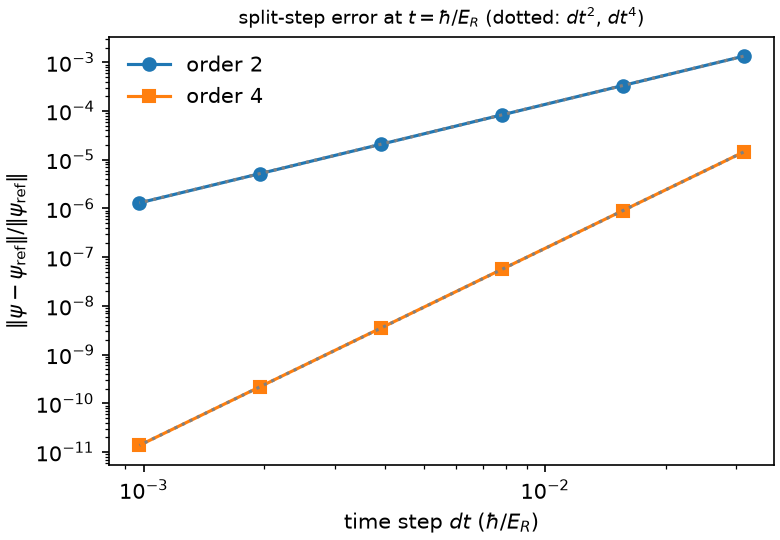
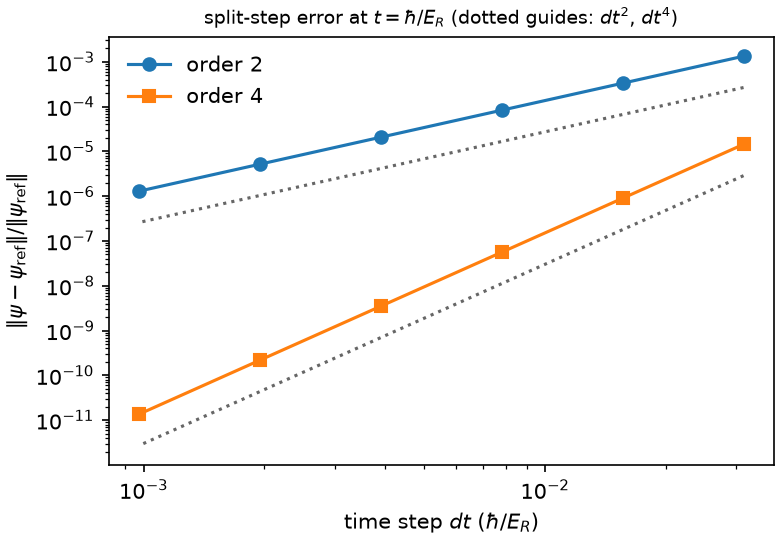
README: model, units, 3D capability, references; clearer validation claims

diff --git a/scripts/validation_report.py b/scripts/validation_report.py
@@ -27,7 +27,7 @@ GROUPS = {
     "C": (
         "Numerical anchors",
         "Dressed band bottom, chemical potential and in-situ contrast at the experiment's coupling, each "
-        "reproduced by an independent solver.",
+        "reproduced by the author's earlier, separately written solvers (not distributed).",
     ),
     "D": (
         "Pre-flight checks",
@@ -36,7 +36,8 @@ GROUPS = {
     ),
     "E": (
         "Trapped cloud",
-        "A cloud of N = 2000 atoms in a 20 Hz trap: contrasts and size against an independent solver, "
+        "A cloud of N = 2000 atoms in a 20 Hz trap: contrasts and size against the author's earlier "
+        "quasi-2D solver (not distributed), "
         "convergence, conservation, and the cloud staying inside the box.",
     ),
 }
@@ -62,7 +63,7 @@ def main(path: str, out: str = str(ROOT / "docs" / "validation.md")) -> int:
         f"({'full' if not meta.get('quick', True) else 'quick'} settings, {d.get('elapsed_s', 0):.0f} s).",
         "",
         "A gate is a pass/fail check of the engine against something known independently: an analytic "
-        "result, an exact identity of the Hamiltonian, or a number reproduced by an independent code. "
+        "result, an exact identity of the Hamiltonian, or a number reproduced by a separately written code. "
         "Thresholds and their sources are in `src/twisted_bilayer/gates/references.py`; a threshold is "
         "never loosened to make a gate pass. Regenerate this page with",
         "",

diff --git a/examples/03_time_step_convergence.py b/examples/03_time_step_convergence.py
@@ -70,10 +70,10 @@ dts = T / steps
 fig, ax = plt.subplots(figsize=(5.2, 3.6), constrained_layout=True)
 for order, mark in ((2, "o-"), (4, "s-")):
     ax.loglog(dts, errors[order], mark, label=f"order {order}")
-    ax.loglog(dts, errors[order][0] * (dts / dts[0]) ** order, ":", color="0.5")
+    ax.loglog(dts, 0.2 * errors[order][0] * (dts / dts[0]) ** order, ":", color="0.4")  # offset guide
 ax.set_xlabel(r"time step $dt$ ($\hbar/E_R$)")
 ax.set_ylabel(r"$\|\psi - \psi_\mathrm{ref}\| / \|\psi_\mathrm{ref}\|$")
-ax.set_title(r"split-step error at $t = \hbar/E_R$ (dotted: $dt^2$, $dt^4$)", fontsize=9)
+ax.set_title(r"split-step error at $t = \hbar/E_R$ (dotted guides: $dt^2$, $dt^4$)", fontsize=9)
 ax.legend(frameon=False)
 fig.savefig(OUT / "03_time_step_convergence.png", dpi=150)
 print(f"wrote {OUT / '03_time_step_convergence.png'}")

diff --git a/src/twisted_bilayer/engine/backend.py b/src/twisted_bilayer/engine/backend.py
@@ -20,7 +20,7 @@ import os
 
 import torch
 
-_FORCE_CPU = bool(os.environ.get("TWISTED_BILAYER_FORCE_CPU"))
+_FORCE_CPU = os.environ.get("TWISTED_BILAYER_FORCE_CPU", "").strip().lower() not in ("", "0", "false", "no")
 HAS_GPU = torch.cuda.is_available() and not _FORCE_CPU
 DEVICE = torch.device("cuda" if HAS_GPU else "cpu")
 

diff --git a/README.md b/README.md
@@ -1,4 +1,4 @@
-# twisted-bilayer: Gross–Pitaevskii simulations of twisted-bilayer optical lattices
+# twisted-bilayer — a two-component Gross–Pitaevskii solver for BECs in twisted-bilayer optical lattices
 
 [![licence: MIT](https://img.shields.io/badge/licence-MIT-blue.svg)](LICENSE)
 [![python: 3.10+](https://img.shields.io/badge/python-3.10%2B-blue.svg)](pyproject.toml)
@@ -6,20 +6,30 @@
 `twisted-bilayer` solves the two-component Gross–Pitaevskii equation for a Bose–Einstein condensate held in
 two square optical lattices twisted against each other, one lattice per hyperfine state, coupled by a
 microwave field. It is written in PyTorch and runs on CPU and CUDA. It covers the exactly periodic moiré
-supercell, trapped clouds, real-time dynamics, and time of flight with absorption imaging. Every run can be
-checked against a catalogue of physics gates.
+supercell, trapped clouds, real-time dynamics, and time of flight with absorption imaging. The engine is
+checked by 89 physics gates, all passing ([docs/validation.md](docs/validation.md)).
 
 The model follows the experiment of Meng *et al.*,
 [*Atomic Bose–Einstein condensate in twisted-bilayer optical lattices*, Nature **615**, 231 (2023)](https://doi.org/10.1038/s41586-023-05695-4):
-⁸⁷Rb in |F=1, m=1⟩ and |F=2, m=0⟩, lattice constant a = 395 nm, twist θ = 5.2°, and a pancake-shaped
-vertical trap folded into 2D. The scope is mean-field: ground states, real-time evolution, Bogoliubov
+⁸⁷Rb in |F=1, m_F=1⟩ and |F=2, m_F=0⟩, lattice constant a = 395 nm, twist angle θ = 5.2°, and a
+pancake-shaped vertical trap, treated in full 3D or folded into 2D. In lattice units (a = E_R = ħ = 1, so
+m = π²/2):
+
+```math
+i\,\partial_t \psi_{1,2} = \Big[-\tfrac{1}{\pi^2}\nabla^2 + V_{1,2}(\mathbf r) \pm \tfrac{\Delta}{2} + g\,n\Big]\psi_{1,2} + \Omega_R\,\psi_{2,1},
+\qquad n = |\psi_1|^2 + |\psi_2|^2 .
+```
+
+Ω_R is the off-diagonal matrix element, so a bare two-level atom oscillates as sin²(Ω_R t). The paper's
+2π × 893 Hz is Ω_R = 0.24277 E_R. The scope is mean field: ground states, real-time evolution, Bogoliubov
 excitations, and a tight-binding cross-check.
 
 <p align="center"><img src="docs/figures/ground_state.png" alt="Moiré potential of the two twisted lattices and the ground-state density of one component" width="760"></p>
 
 *Left: the sum of the two lattice potentials on the periodic supercell (θ = 5.2051°, side √485 a, 2 × 2
-moiré cells). Right: the density of |2⟩ in the ground state at V₀ = 4 E_R and Ω_R = 0.243 E_R.
-`python examples/01_ground_state.py` makes this figure in about 15 seconds.*
+moiré cells). Right: the density of |2⟩ in the ground state at V₀ = 4 E_R, Ω_R = 0.24277 E_R, one atom per
+lattice site, with the NPSE vertical reduction on a 176 × 176 grid. `python examples/01_ground_state.py`
+makes this figure in about 15 seconds on 2 CPU cores.*
 
 ## Highlights
 
@@ -29,23 +39,30 @@ moiré cells). Right: the density of |2⟩ in the ground state at V₀ = 4 E_R a
   ([example 3](examples/03_time_step_convergence.py)).
 - **Batched parameter sweeps.** The coupling Ω_R, the detuning, the interaction and the phase twist can be
   tensors with a batch axis, so a whole scan relaxes in one set of FFT calls on the GPU.
-- **Superfluid fraction two ways.** It comes from the energy of a phase twist and, independently, from the
-  current that twist drives. The two routes agree to 4 × 10⁻⁵ and are checked against Leggett's rigorous
-  bounds.
+- **Superfluid fraction with bounds.** A phase twist Φ across the box, the same on both components, gives
+  f_s from the twist energy and from the twist current. The two estimators are related by
+  Hellmann–Feynman, so their agreement (4 × 10⁻⁵ at Φ = 0.2) checks the twisted ground state. Leggett's
+  upper and lower bounds, computed from the untwisted density, bracket the result.
+- **One engine in 1D, 2D and 3D.** The grid, the split-step propagator, the ground-state solver and the
+  energy, current and superfluid-fraction observables work on any number of spatial axes, so the full 3D
+  problem with the vertical trap runs on the same code as the 2D reduction and the 1D toy models. The
+  imaging observables are 2D (column densities). The tests include 3D real-time runs and the NPSE checked
+  against full 3D.
 - **Exactly periodic moiré cells.** Commensurate twists tan(θ/2) = n/m give a periodic square box. The
   experiment's angle is n/m = 1/22.
-- **More than one model.** The thin vertical direction is handled by the NPSE reduction and checked against
-  the full 3D problem. The package also covers trapped clouds from a local-density start,
+- **More than one model.** The vertical direction can be folded into 2D by the NPSE, a reduction that is
+  checked against the full 3D solution. The package also covers trapped clouds from a local-density start,
   Bogoliubov–de Gennes modes, a two-layer Bose–Hubbard mean field, and the time-of-flight and coherent
   absorption-imaging pipeline.
-- **Physics gates.** 89 gates check the engine against analytic results, exact identities and numbers
-  reproduced by independent solvers that are not part of this package
-  ([docs/validation.md](docs/validation.md)).
+- **Physics gates.** 89 gates check the engine against analytic results, exact identities, and numbers
+  reproduced by the author's earlier, separately written quasi-2D and 3D solvers. Those solvers are not
+  distributed; their values and tolerances are pinned in
+  [`gates/references.py`](src/twisted_bilayer/gates/references.py).
 
 ## Validation
 
-A selection from `twisted-bilayer gates --full --trapped` (89 gates, all passing; CPU, float64). The full table is in
-[docs/validation.md](docs/validation.md).
+A selection from `twisted-bilayer gates --full --trapped`: 89 gates, all passing, on the CPU in complex128,
+in about 6.5 minutes on 2 CPU cores. The full table is in [docs/validation.md](docs/validation.md).
 
 | check | error | reference |
 | --- | --- | --- |
@@ -54,31 +71,39 @@ A selection from `twisted-bilayer gates --full --trapped` (89 gates, all passing
 | detuned two-level Rabi oscillation, N₂/N(t) | 1.1 × 10⁻¹⁵ | exact |
 | band bottom of V₀ sin²(πx) at 4 E_R, on the √485 supercell | 6.2 × 10⁻¹² | plane-wave diagonalisation |
 | Bloch weight \|c₀\|⁴ at 4 E_R | 4.9 × 10⁻⁹ | plane-wave diagonalisation |
-| gauge symmetry H(−Ω) = σ_z H(Ω) σ_z | 1.6 × 10⁻¹⁶ | exact identity |
+| gauge symmetry H(−Ω_R) = σ_z H(Ω_R) σ_z | 1.6 × 10⁻¹⁶ | exact identity |
 | time reversal dt → −dt after 400 steps | 7.3 × 10⁻¹⁴ | exact identity |
-| superfluid fraction, twist energy against twist current | 4.1 × 10⁻⁵ | two independent routes |
-| dressed band bottom at Ω_R = 0.243 E_R | 2.2 × 10⁻¹⁰ | independent quasi-2D and 3D solvers |
-| chemical potential at Ω_R = 0.243 E_R, one atom per site | 1.8 × 10⁻⁷ | independent quasi-2D solver |
+| superfluid fraction, twist energy against twist current | 4.1 × 10⁻⁵ | consistency of the two estimators |
+| dressed band bottom at Ω_R = 0.24277 E_R | 2.2 × 10⁻¹⁰ | author's quasi-2D and 3D solvers |
+| chemical potential at Ω_R = 0.24277 E_R, one atom per site | 1.8 × 10⁻⁷ | author's quasi-2D solver |
 
 <p align="center"><img src="docs/figures/time_step_convergence.png" alt="Error of the split-step integrator against the time step for orders 2 and 4" width="440"></p>
 
+*Real-time error after t = ħ/E_R for a Rabi transfer in the lattice, against a fine-step reference. The
+dotted lines are dt² and dt⁴. `python examples/03_time_step_convergence.py` makes it in about 15 seconds.*
+
 ## Installation
 
-Python 3.10 or newer.
+Python 3.10 or newer; tested with Python 3.13 on Linux and Windows.
 
 ```bash
 git clone https://github.com/VaclavSvo/3D-GPE-Twisted-Bilayer-optical-lattices.git
 cd 3D-GPE-Twisted-Bilayer-optical-lattices
 python -m venv .venv
-source .venv/bin/activate                     # Windows: .venv\Scripts\activate
-pip install torch --index-url https://download.pytorch.org/whl/cpu    # CPU only (see below)
-pip install -e ".[dev]"                       # numpy, scipy, matplotlib, torch + pytest, ruff
+source .venv/bin/activate          # Windows (PowerShell): .venv\Scripts\Activate.ps1
 ```
 
-On Linux, a plain `pip install torch` pulls the CUDA build (an environment of about 6 GB). The line above installs the
-CPU build instead. For a GPU, take the command for your CUDA version from
-[pytorch.org](https://pytorch.org/get-started/locally/) instead. `pip install .` (not editable) works as
-well.
+Then install PyTorch, choosing one of the two lines, and the package:
+
+```bash
+pip install torch --index-url https://download.pytorch.org/whl/cpu      # CPU only
+pip install torch --index-url https://download.pytorch.org/whl/cu128    # NVIDIA GPU (CUDA 12.8)
+pip install -e ".[dev]"            # numpy, scipy, matplotlib, threadpoolctl + pytest, ruff
+```
+
+For another CUDA version, take the command from [pytorch.org](https://pytorch.org/get-started/locally/).
+On Linux, a plain `pip install torch` pulls the CUDA build (an environment of about 6 GB), so pick the CPU
+line if you have no GPU. `pip install .` (not editable) works as well.
 
 ## Quick start
 
@@ -86,9 +111,14 @@ well.
 twisted-bilayer list                          # the scenarios
 twisted-bilayer run coupling_scan_quick       # ~15 s; files in results/coupling_scan_quick/
 twisted-bilayer run rabi_quick --out runs     # files in runs/rabi_quick/
-twisted-bilayer gates                         # the physics gates, ~45 s
-python check.py                               # lint + the test suite, ~5 min
+twisted-bilayer gates                         # the quick physics gates (79), ~45 s
+python check.py                               # lint + the 183 tests
+python check.py --all                         # + the quick gates as one slow test, ~1 min more
+pytest tests/test_kinetic.py                  # one test file
 ```
+
+`check.py` takes about 5 minutes on 2 laptop CPU cores and about 2 minutes on a desktop. The tests run on
+the CPU in complex128.
 
 `coupling_scan_quick` finds the ground state at five couplings in one batch. For each, it measures the
 superfluid fraction, the Leggett bounds and how the atoms gather into the moiré pockets. It writes a
@@ -104,8 +134,11 @@ version, git commit, library versions and device:
        1        32.468   4.2367  4.2855       0.24014        0.23994          0.16413          0.59207
 ```
 
-The quick scenarios use the small m = 4 cell, a 28° twist, so they finish in seconds. Use them to check
-that everything works; they do not reproduce the experiment's geometry.
+Energies are in E_R. `Omega_over_J` is Ω_R/J₁, where J₁ = 0.0308 E_R is the nearest-neighbour hopping of one
+lattice at V₀ = 8 E_R. `fs_xx` is the superfluid fraction along the box x axis.
+
+The quick scenarios use the small tan(θ/2) = 1/4 cell (θ = 28°), so they finish in seconds. Use them to
+check that everything works; they do not reproduce the experiment's geometry.
 
 ## Using the engine from Python
 
@@ -129,10 +162,16 @@ n = (r.psi[0].abs() ** 2).cpu().numpy()  # (2, N, N): the densities of the two s
 mu = 2.908446 E_R, residual 7e-10
 ```
 
-Quantities are in lattice units: lengths in a, energies in the recoil energy E_R = h × 3678 Hz, ħ = 1.
-`lattice_units()` converts to SI.
+### Units
+
+Lengths are in the lattice constant a = 395 nm, energies in the recoil energy E_R = h × 3678.38 Hz, and
+ħ = 1, so m = π²/2 and the time unit is ħ/E_R = 43.27 µs. The engine uses the s-wave scattering length
+a_s = 100 a₀ for all three channels; the gate anchors use 5.29 nm, and the 3 × 10⁻⁴ difference in g is
+listed in `engine.units.EXCEPTIONS` and pinned by the tests. `lattice_units()` converts to SI.
 
 ## Examples
+
+Times are for 2 CPU cores. Figures go to `examples/output/`.
 
 | script | what it shows | time |
 | --- | --- | --- |
@@ -141,8 +180,6 @@ Quantities are in lattice units: lengths in a, energies in the recoil energy E_R
 | [`03_time_step_convergence.py`](examples/03_time_step_convergence.py) | order-2 and order-4 convergence of the real-time integrator, norm and energy conservation | 15 s |
 | [`my_scenarios.py`](examples/my_scenarios.py) | your own scenario rows for the command line: `twisted-bilayer run scan_v6_quick --scenarios examples/my_scenarios.py` | 15 s |
 
-Figures go to `examples/output/`. Times are for 2 CPU cores.
-
 ## Scenarios
 
 `twisted-bilayer run <name>` runs a named row of [`scenarios.py`](src/twisted_bilayer/scenarios.py), or of
@@ -150,29 +187,29 @@ your own file with `--scenarios FILE`. Times are for 2 CPU cores.
 
 | name | what it computes | time |
 | --- | --- | --- |
-| `coupling_scan_quick` | superfluid fraction, Leggett bounds, μ and pocket formation against the coupling (m = 4 cell) | 15 s |
+| `coupling_scan_quick` | superfluid fraction, Leggett bounds, μ and pocket formation against the coupling (tan(θ/2) = 1/4 cell) | 15 s |
 | `trapped_quick` | a small trapped cloud: local-density start, ground state, contrasts as imaged | 10 s |
 | `rabi_quick` | real-time Rabi transfer between the two states inside the lattice | 15 s |
 | `toy1d` | the one-dimensional two-lattice model: exact hopping, superfluid fraction by twist | 10 s |
 | `thin_z_quick` | the full 3D problem with a thin vertical direction against the quasi-2D reduction | 20 s |
-| `bdg` | Bogoliubov–de Gennes modes: sound speed and the spin branch | 1.5 min |
-| `tight_binding` | the two-layer Bose–Hubbard mean field on the experiment's supercell, three variants | 1.5 min |
+| `bdg` | Bogoliubov–de Gennes modes: sound speed and the spin branch (always on the CPU) | 1.5 min |
+| `tight_binding` | the two-layer Bose–Hubbard mean field on the experiment's supercell, three variants (always on the CPU) | 1.5 min |
 | `coupling_scan_v4` | coupling scan at V₀ = 4 E_R on the experiment's supercell (θ = 5.2°) | 6 min |
 | `trapped` | a cloud of N = 2000 atoms in a 20 Hz trap on 3 × 3 supercells, and its contrast as imaged | 6 min |
 | `gpu_check` | the quick scan on the GPU and on the CPU, every number compared; then a production timing | GPU |
 
 ## How it works, in one paragraph
 
-The two components evolve under the Hamiltonian of the paper's Supplement (Eqs. 4, 5, 10, 11): kinetic
-energy, one twisted lattice per component, a detuning ±Δ/2, an SU(2)-symmetric contact interaction g n with
-n = |ψ₁|² + |ψ₂|², and the coupling Ω_R as the off-diagonal element. Time stepping is split-step Fourier.
-The kinetic part is diagonal in momentum. The local part is a 2 × 2 matrix whose exponential is exact,
-because n is conserved by it. Twisted boundary conditions ψ(r + L) = e^{iθ} ψ(r) are carried as a momentum
-shift of a periodic field. Ground states come from imaginary time with an adaptive step ladder and a
-residual criterion ‖Hψ − μψ‖/‖ψ‖, then a preconditioned polish. The vertical direction is folded in by the
-NPSE, a density-dependent Gaussian width, and checked against a 3D grid. Imaging applies the coherent
-transfer function of the experiment's objective, and time of flight propagates each Bragg order separately
-after a mean-field stage. The modules and their equations are documented in their docstrings.
+The two components evolve under the Hamiltonian above, from the paper's Supplement (Eqs. 4, 5, 10, 11).
+Each component has its own lattice, V₁ and V₂, rotated by ±θ/2. The contact interaction is SU(2)-symmetric
+and acts on the total density n. Time stepping is split-step Fourier: the kinetic part is diagonal in
+momentum, and the local part is a 2 × 2 matrix whose exponential is exact because it conserves n. A phase
+twist ψ(r + L x̂) = e^{iΦ} ψ(r) is carried as a momentum shift of a periodic field. Ground states come from
+imaginary time with an adaptive step ladder and a residual criterion ‖Hψ − μψ‖/‖ψ‖, then a preconditioned
+polish. The vertical direction is folded in by the NPSE, which replaces g n by the interaction of a Gaussian
+of density-dependent width, and is checked against a 3D grid. Imaging applies the coherent transfer
+function of the experiment's objective, and time of flight propagates each Bragg order separately after a
+mean-field stage. The modules and their equations are documented in their docstrings.
 
 ## Repository layout
 
@@ -195,39 +232,50 @@ docs/            validation.md and the README figures
 check.py         lint + tests in one command
 ```
 
-## Tests
-
-```bash
-python check.py                 # ruff + pytest (183 tests), ~5 min on 2 cores
-python check.py --all           # + the quick physics-gate suite as one slow test, ~1 min more
-pytest tests/test_kinetic.py    # one file
-```
-
-The tests run on the CPU in float64.
-
 ## Running on a GPU
 
-Install a CUDA build of PyTorch before the package. The engine uses the GPU when one is visible; set
-`TWISTED_BILAYER_FORCE_CPU=1` or pass `--cpu` to stay on the CPU. Start with `twisted-bilayer run gpu_check`:
-it runs the quick scan on both devices and compares every number (10⁻⁶ on energies, 10⁻⁴ on superfluid
-fractions) before it times a production-size cell. Supercell ground states run in complex128. Large grids
-can relax in complex64 and polish in complex128.
+Install a CUDA build of PyTorch before the package (see Installation). The engine uses the GPU when one is
+visible. To stay on the CPU, pass `--cpu` to `twisted-bilayer run`, or set the environment variable
+`TWISTED_BILAYER_FORCE_CPU=1` (PowerShell: `$env:TWISTED_BILAYER_FORCE_CPU = "1"`). The physics gates run
+on the CPU unless you pass `--device cuda`, and `bdg` and `tight_binding` always run on the CPU.
+
+Start with `twisted-bilayer run gpu_check`. It runs the quick scan on both devices and compares every
+number (10⁻⁶ on energies, 10⁻⁴ on superfluid fractions) before it times a production-size cell. On a
+12 GB consumer NVIDIA GPU, `coupling_scan_quick` reproduces the CPU table above to every printed digit.
+Supercell ground states run in complex128. Large grids can relax in complex64 and polish in complex128.
 
 ## Limitations
 
 - Mean field only. Quantum depletion and finite temperature are not included, beyond the Bogoliubov modes.
 - One s-wave scattering length for all three channels (SU(2)-symmetric interaction), as in the paper.
 - Commensurate twist angles only (tan(θ/2) = n/m). The measured angle 5.21(5)° is represented by 1/22.
-- The quasi-2D reduction is checked against 3D on small cells. Full 3D production runs need a GPU.
-- The CPU in float64 is the reference. The GPU path runs the same code and is checked against the CPU by
-  `gpu_check`.
+- The shipped 3D scenario (`thin_z_quick`) uses the small tan(θ/2) = 1/4 cell. Full 3D runs on the
+  experiment's √485 supercell work with the same engine but are slow on a CPU; use a GPU for them.
+- The CPU in complex128 is the reference. The GPU path runs the same code and is checked against the CPU
+  by `gpu_check`.
+
+## References
+
+- Z. Meng *et al.*, Atomic Bose–Einstein condensate in twisted-bilayer optical lattices,
+  [Nature **615**, 231 (2023)](https://doi.org/10.1038/s41586-023-05695-4). The experiment and the model.
+- L. Salasnich, A. Parola and L. Reatto, Effective wave equations for the dynamics of cigar-shaped and
+  disk-shaped Bose condensates, [Phys. Rev. A **65**, 043614 (2002)](https://doi.org/10.1103/PhysRevA.65.043614).
+  The NPSE.
+- H. Yoshida, Construction of higher order symplectic integrators, Phys. Lett. A **150**, 262 (1990). The
+  order-4 composition.
+- A. J. Leggett, Can a solid be "superfluid"?, [Phys. Rev. Lett. **25**, 1543 (1970)](https://doi.org/10.1103/PhysRevLett.25.1543);
+  On the superfluid fraction of an arbitrary many-body system at T = 0, J. Stat. Phys. **93**, 927 (1998).
+  The bounds.
+- G. Chauveau *et al.*, Superfluid fraction in an interacting spatially modulated Bose–Einstein condensate,
+  [Phys. Rev. Lett. **130**, 226003 (2023)](https://doi.org/10.1103/PhysRevLett.130.226003). The bounds in a
+  modulated condensate.
 
 ## How this was built
 
 The physics, the model choices and the validation design are the author's. The implementation was
 AI-assisted, written under the author's direction and reviewed by him. What the author stands behind is
 the validation: the physics gates, the test suite and the pinned reference numbers make any unexplained
-change in a result fail the build.
+change in a result fail `python check.py`.
 
 ## Citing
 
@@ -237,4 +285,4 @@ If you use this code, please cite it via [`CITATION.cff`](CITATION.cff), and the
 
 MIT licence; see [`LICENSE`](LICENSE).
 
-Václav Svoboda, Mathematical Physics MSc, Wolfgang Pauli Institute, Vienna.
+Václav Svoboda, MSc Mathematical Physics, University of Vienna; Wolfgang Pauli Institute, Vienna (Mauser group).

diff --git a/docs/validation.md b/docs/validation.md
@@ -2,7 +2,7 @@
 
 **89 of 89 physics gates pass** on CPU (2 threads), torch 2.14.1+cu130 (full settings, 383 s).
 
-A gate is a pass/fail check of the engine against something known independently: an analytic result, an exact identity of the Hamiltonian, or a number reproduced by an independent code. Thresholds and their sources are in `src/twisted_bilayer/gates/references.py`; a threshold is never loosened to make a gate pass. Regenerate this page with
+A gate is a pass/fail check of the engine against something known independently: an analytic result, an exact identity of the Hamiltonian, or a number reproduced by a separately written code. Thresholds and their sources are in `src/twisted_bilayer/gates/references.py`; a threshold is never loosened to make a gate pass. Regenerate this page with
 
 ```bash
 twisted-bilayer gates --full --trapped --out outputs/gates
@@ -93,7 +93,7 @@ Gauge symmetry H(-J) = sz H(J) sz, conservation of N2/N without coupling, C4 iso
 
 ## C. Numerical anchors
 
-Dressed band bottom, chemical potential and in-situ contrast at the experiment's coupling, each reproduced by an independent solver.
+Dressed band bottom, chemical potential and in-situ contrast at the experiment's coupling, each reproduced by the author's earlier, separately written solvers (not distributed).
 
 | gate | result | |
 | --- | --- | --- |
@@ -130,7 +130,7 @@ Kinetic phase per time step of the automatic time step (orders 2 and 4), grid re
 
 ## E. Trapped cloud
 
-A cloud of N = 2000 atoms in a 20 Hz trap: contrasts and size against an independent solver, convergence, conservation, and the cloud staying inside the box.
+A cloud of N = 2000 atoms in a 20 Hz trap: contrasts and size against the author's earlier quasi-2D solver (not distributed), convergence, conservation, and the cloud staying inside the box.
 
 | gate | result | |
 | --- | --- | --- |
